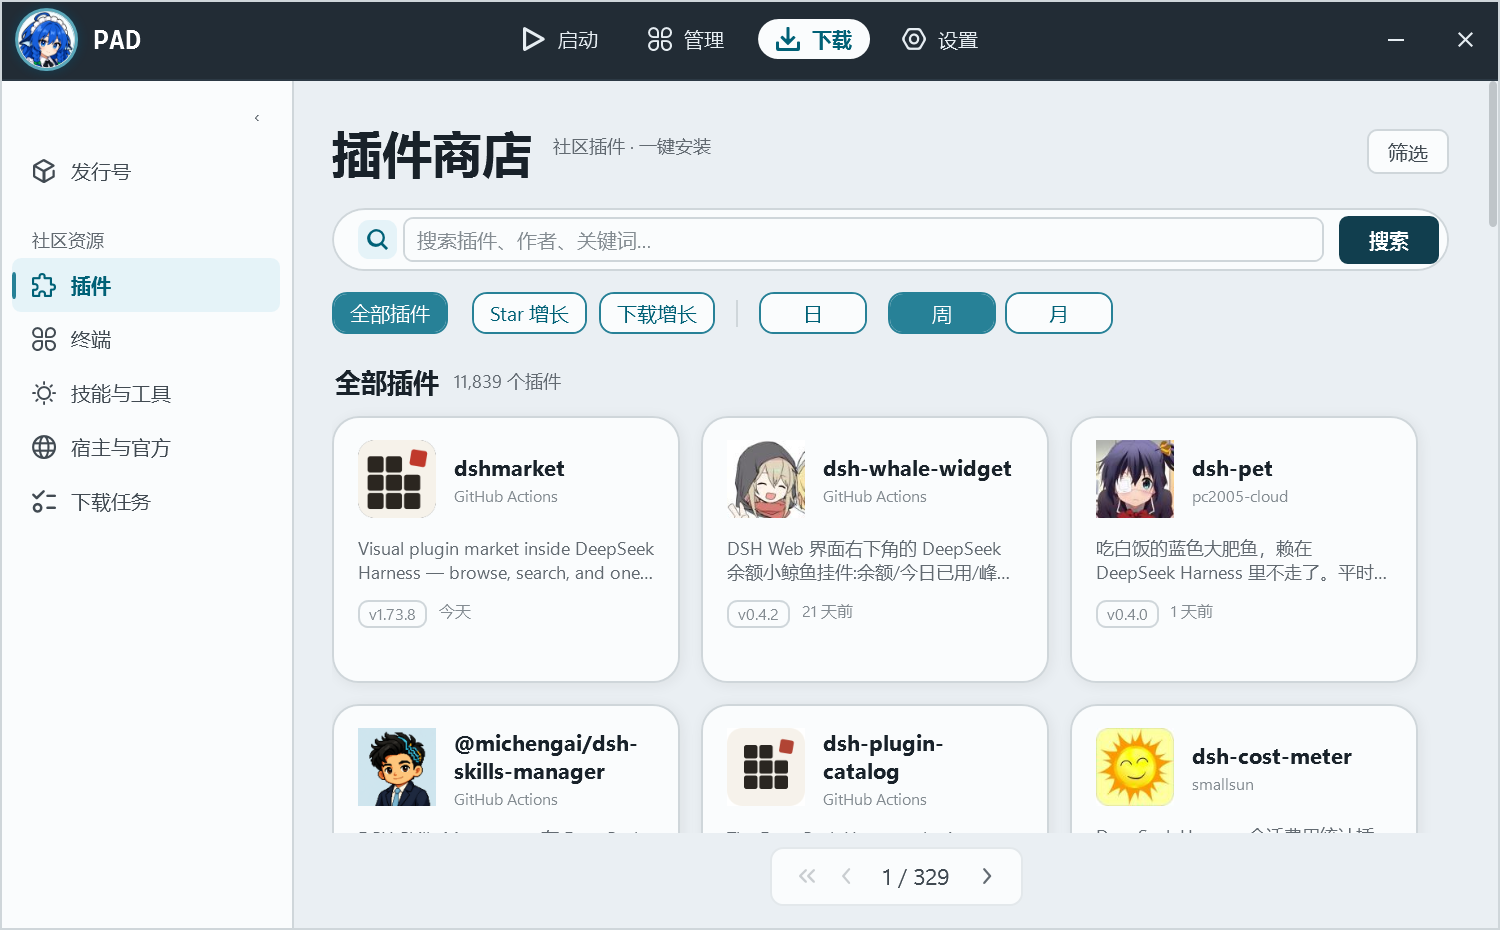
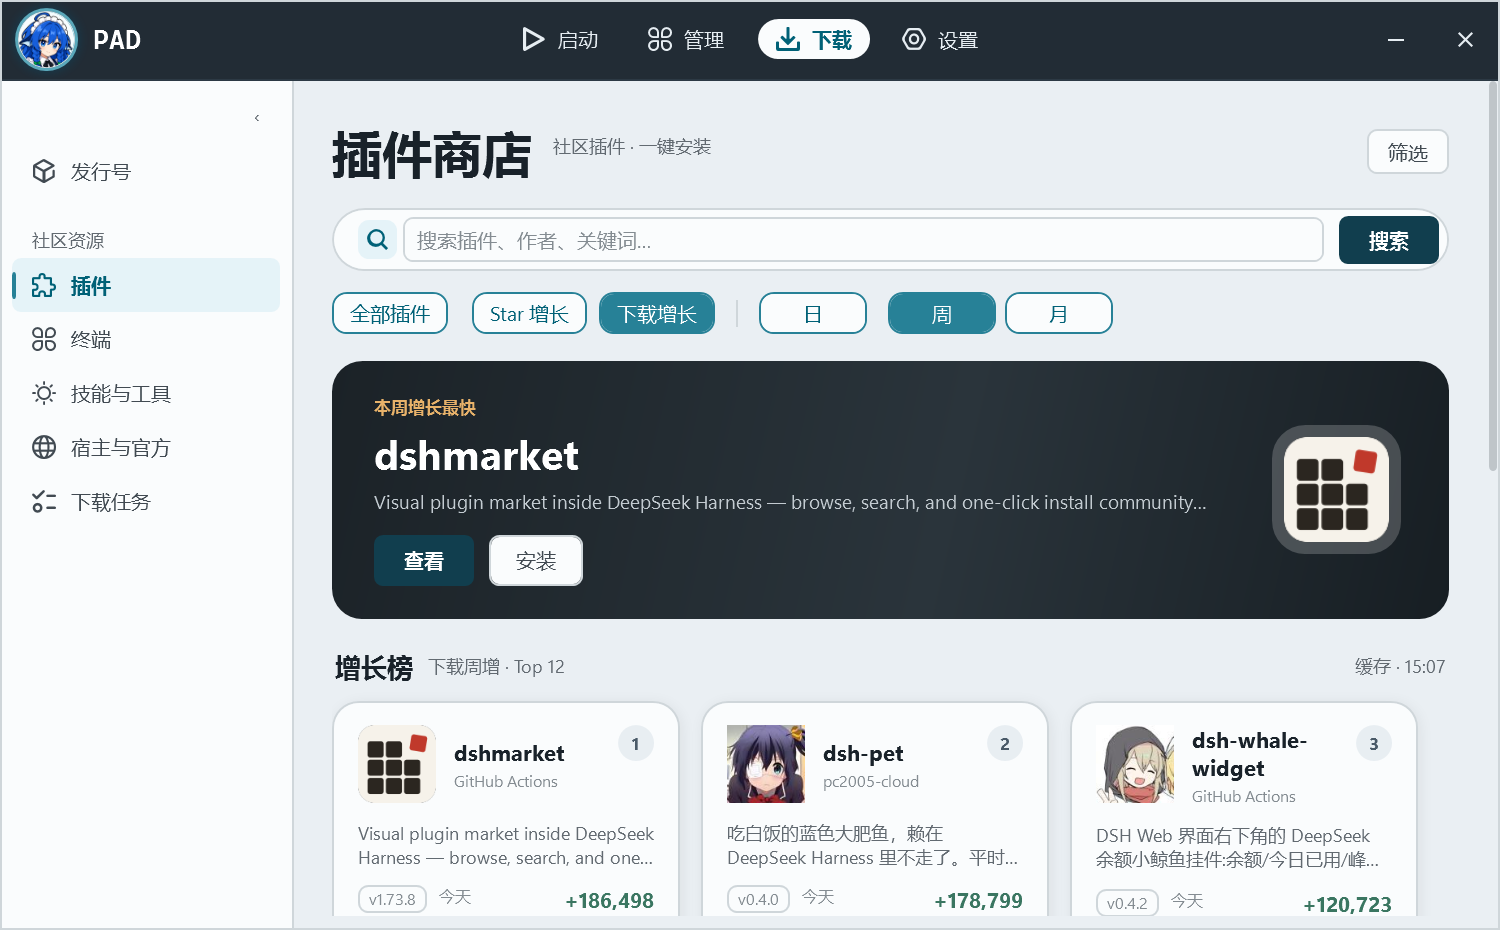
PAD 商店：首页改为 Hero + 增长卡片（默认下载增长·周），全部插件仍为普通卡片网格

diff --git a/agent-pack-dsh/pad/Views/DownloadView.xaml b/agent-pack-dsh/pad/Views/DownloadView.xaml
@@ -350,11 +350,12 @@
 
             <StackPanel Orientation="Horizontal" Margin="0,14,0,0">
               <RadioButton x:Name="ModeAll" Style="{StaticResource FilterTab}" Content="全部插件"
-                           GroupName="storeMode" IsChecked="True" Checked="StoreMode_Changed" />
+                           GroupName="storeMode" Checked="StoreMode_Changed" />
               <RadioButton x:Name="ModeStars" Style="{StaticResource FilterTab}" Content="Star 增长"
                            GroupName="storeMode" Margin="8,0,0,0" Checked="StoreMode_Changed" />
               <RadioButton x:Name="ModeDownloads" Style="{StaticResource FilterTab}" Content="下载增长"
-                           GroupName="storeMode" Margin="8,0,0,0" Checked="StoreMode_Changed" />
+                           GroupName="storeMode" Margin="8,0,0,0" IsChecked="True"
+                           Checked="StoreMode_Changed" />
               <Border Width="1" Height="18" Background="{StaticResource LineBorder}"
                       Margin="14,0" VerticalAlignment="Center" />
               <RadioButton x:Name="PeriodDay" Style="{StaticResource FilterTab}" Content="日"
@@ -417,6 +418,43 @@
               </StackPanel>
             </StackPanel>
 
+            <!-- Hero：本周增长最快；首页默认就是这个视图 -->
+            <Border x:Name="GrowthHero" Visibility="Collapsed" Height="172" Margin="0,18,0,0"
+                    CornerRadius="20" ClipToBounds="True">
+              <Border.Background>
+                <LinearGradientBrush StartPoint="0,0" EndPoint="1,1">
+                  <GradientStop Color="#1B2227" Offset="0" />
+                  <GradientStop Color="#2A343B" Offset="0.55" />
+                  <GradientStop Color="#171E23" Offset="1" />
+                </LinearGradientBrush>
+              </Border.Background>
+              <Grid Margin="28,0">
+                <Grid.ColumnDefinitions>
+                  <ColumnDefinition Width="*" />
+                  <ColumnDefinition Width="Auto" />
+                </Grid.ColumnDefinitions>
+                <StackPanel VerticalAlignment="Center">
+                  <TextBlock Text="本周增长最快" Foreground="#E8B26A" FontSize="11"
+                             FontWeight="Bold" />
+                  <TextBlock x:Name="HeroTitle" Foreground="White" FontSize="27" FontWeight="Bold"
+                             Margin="0,6,0,0" TextTrimming="CharacterEllipsis" />
+                  <TextBlock x:Name="HeroDesc" Foreground="#C3CBD1" FontSize="12.5"
+                             Margin="0,6,0,0" MaxWidth="560" HorizontalAlignment="Left"
+                             TextTrimming="CharacterEllipsis" />
+                  <StackPanel Orientation="Horizontal" Margin="0,14,0,0">
+                    <Button Style="{StaticResource BtnPrimary}" Content="查看" Height="34"
+                            Padding="20,0" Click="HeroOpen_Click" />
+                    <Button Style="{StaticResource Btn}" Content="安装" Height="34"
+                            Padding="18,0" Margin="10,0,0,0" Click="HeroOpen_Click" />
+                  </StackPanel>
+                </StackPanel>
+                <Border Grid.Column="1" Width="86" Height="86" CornerRadius="22"
+                        Background="#33FFFFFF" VerticalAlignment="Center" Margin="20,0,4,0">
+                  <v:PluginMark x:Name="HeroIcon" Width="70" Height="70" Size="70" />
+                </Border>
+              </Grid>
+            </Border>
+
             <Grid Margin="2,20,2,12">
               <StackPanel Orientation="Horizontal" VerticalAlignment="Center">
                 <TextBlock x:Name="StoreSectionTitle" Text="全部插件" FontSize="17"
@@ -431,68 +469,6 @@
                          FontSize="{StaticResource FsSmall}" />
             </Grid>
 
-            <!-- 增长榜：榜单式平铺列表，每行一张真实插件图片 -->
-            <Border x:Name="GrowthPanel" Visibility="Collapsed" Margin="0,2,0,10"
-                    Background="{StaticResource BgCard}" CornerRadius="18"
-                    BorderBrush="{StaticResource LineBorder}" BorderThickness="1">
-              <ItemsControl x:Name="GrowthList">
-                <ItemsControl.ItemTemplate>
-                  <DataTemplate>
-                    <StackPanel>
-                      <Grid Height="86" Background="Transparent" Tag="{Binding}"
-                            MouseLeftButtonUp="Row_OpenDetail" Cursor="Hand">
-                        <Grid.ColumnDefinitions>
-                          <ColumnDefinition Width="42" />
-                          <ColumnDefinition Width="72" />
-                          <ColumnDefinition Width="*" />
-                          <ColumnDefinition Width="Auto" />
-                        </Grid.ColumnDefinitions>
-                        <TextBlock Text="{Binding Rank}" FontSize="18" FontWeight="Bold"
-                                   Foreground="{StaticResource TextMuted}"
-                                   HorizontalAlignment="Center" VerticalAlignment="Center" />
-                        <v:PluginMark Grid.Column="1" Width="56" Height="56" Size="56"
-                                      IconPath="{Binding IconPath}" Spec="{Binding Name}"
-                                      VerticalAlignment="Center" />
-                        <StackPanel Grid.Column="2" VerticalAlignment="Center" Margin="14,0,14,0">
-                          <TextBlock Text="{Binding Title}" FontSize="15" FontWeight="Bold"
-                                     Foreground="{StaticResource TextPrimary}"
-                                     TextTrimming="CharacterEllipsis" />
-                          <TextBlock Text="{Binding Publisher}" FontSize="10.5"
-                                     Foreground="{StaticResource TextMuted}" Margin="0,2,0,0"
-                                     TextTrimming="CharacterEllipsis" />
-                          <TextBlock Text="{Binding DescriptionText}" FontSize="11.5"
-                                     Foreground="{StaticResource TextSecondary}" Margin="0,3,0,0"
-                                     TextTrimming="CharacterEllipsis" />
-                        </StackPanel>
-                        <StackPanel Grid.Column="3" VerticalAlignment="Center"
-                                    HorizontalAlignment="Right" Margin="0,0,20,0">
-                          <TextBlock Text="{Binding GrowthBadge}" FontSize="19" FontWeight="Bold"
-                                     HorizontalAlignment="Right">
-                            <TextBlock.Style>
-                              <Style TargetType="TextBlock">
-                                <Setter Property="Foreground" Value="{StaticResource Success}" />
-                                <Style.Triggers>
-                                  <DataTrigger Binding="{Binding GrowthSign}" Value="neg">
-                                    <Setter Property="Foreground" Value="{StaticResource Danger}" />
-                                  </DataTrigger>
-                                  <DataTrigger Binding="{Binding GrowthSign}" Value="zero">
-                                    <Setter Property="Foreground" Value="{StaticResource TextMuted}" />
-                                  </DataTrigger>
-                                </Style.Triggers>
-                              </Style>
-                            </TextBlock.Style>
-                          </TextBlock>
-                          <TextBlock Text="{Binding GrowthTotalLine}" FontSize="10.5"
-                                     Foreground="{StaticResource TextMuted}"
-                                     HorizontalAlignment="Right" Margin="0,2,0,0" />
-                        </StackPanel>
-                      </Grid>
-                      <Border Height="1" Background="{StaticResource BgPage}" Margin="42,0,0,0" />
-                    </StackPanel>
-                  </DataTemplate>
-                </ItemsControl.ItemTemplate>
-              </ItemsControl>
-            </Border>
           </StackPanel>
 
           <Border x:Name="MarketError" Style="{StaticResource BannerWarn}" Margin="0,0,0,15"

diff --git a/agent-pack-dsh/pad/Views/DownloadView.xaml.cs b/agent-pack-dsh/pad/Views/DownloadView.xaml.cs
@@ -23,7 +23,8 @@ public partial class DownloadView : UserControl, IRefreshable
 
     int _storePageSizeUsed = 20;
     bool _growthBusy;
-    string _storeMode = "all";
+    string _storeMode = "downloads";
+    MarketRow? _heroRow;
     int _storePeriod = 7;
     DispatcherTimer? _storeResizeTimer;
 
@@ -811,7 +812,7 @@ public partial class DownloadView : UserControl, IRefreshable
         foreach (var r in shown) r.Favorite = Favorites.IsFavorite(_state.Launcher.Root, r.Name);
         ResultList.ItemsSource = shown;
         _ = LoadMarketIcons(page.Rows);
-        GrowthPanel.Visibility = Visibility.Collapsed;
+        GrowthHero.Visibility = Visibility.Collapsed;
         StoreSectionTitle.Text = "全部插件";
         StoreSectionSub.Text = $"{page.Total:N0} 个插件";
         StoreSectionRight.Text = SearchBox.Text.Trim().Length > 0 ? $"搜索“{SearchBox.Text.Trim()}”" : "";
@@ -892,6 +893,11 @@ public partial class DownloadView : UserControl, IRefreshable
         }, System.Windows.Threading.DispatcherPriority.Loaded);
     }
 
+    void HeroOpen_Click(object sender, RoutedEventArgs e)
+    {
+        if (_heroRow is not null) OpenStoreDetail(_heroRow);
+    }
+
     void StoreRailToggle_Click(object sender, RoutedEventArgs e)
     {
         var hide = StoreRail.Visibility == Visibility.Visible;
@@ -905,10 +911,10 @@ public partial class DownloadView : UserControl, IRefreshable
         _growthBusy = true;
         MarketError.Visibility = Visibility.Collapsed;
         EmptyCard.Visibility = Visibility.Collapsed;
-        ResultCard.Visibility = Visibility.Collapsed;
-        GrowthPanel.Visibility = Visibility.Collapsed;
+        ResultCard.Visibility = Visibility.Visible;
         PagerCard.Visibility = Visibility.Collapsed;
-        LoadCard.Visibility = GrowthList.ItemsSource is null ? Visibility.Visible : Visibility.Collapsed;
+        GrowthHero.Visibility = Visibility.Collapsed;
+        LoadCard.Visibility = ResultList.ItemsSource is null ? Visibility.Visible : Visibility.Collapsed;
         StoreSectionTitle.Text = "增长榜";
         StoreSectionSub.Text = _storeMode == "stars" ? "Star 增长" : "下载增长";
         StoreSectionRight.Text = "";
@@ -934,20 +940,27 @@ public partial class DownloadView : UserControl, IRefreshable
                 GrowthSign = m.GrowthSign,
             }).ToList();
             foreach (var r in rows) r.Favorite = Favorites.IsFavorite(_state.Launcher.Root, r.Name);
-            GrowthList.ItemsSource = rows;
+            ResultList.ItemsSource = rows;
             StoreSectionSub.Text = $"{board?.Label ?? ""} · Top {rows.Count}";
             StoreSectionRight.Text = boards.FromCache ? $"缓存 · {boards.GeneratedText}" : $"更新 · {boards.GeneratedText}";
             var any = rows.Count > 0;
-            GrowthPanel.Visibility = any ? Visibility.Visible : Visibility.Collapsed;
-            ResultCard.Visibility = Visibility.Collapsed;
+            ResultCard.Visibility = any ? Visibility.Visible : Visibility.Collapsed;
             EmptyCard.Visibility = any ? Visibility.Collapsed : Visibility.Visible;
             EmptyText.Text = "暂时拉不到增长数据（网络或 GitHub 限流）";
-            if (any) await LoadMarketIcons(rows);
+            if (any)
+            {
+                _heroRow = rows[0];
+                HeroTitle.Text = _heroRow.Title;
+                HeroDesc.Text = $"{_heroRow.DescriptionText} · 本期 {_heroRow.GrowthBadge}";
+                HeroIcon.Spec = _heroRow.Name;
+                GrowthHero.Visibility = Visibility.Visible;
+                await LoadMarketIcons(rows);
+                HeroIcon.IconPath = _heroRow.IconPath;
+            }
         }
         catch (Exception ex)
         {
-            GrowthList.ItemsSource = null;
-            GrowthPanel.Visibility = Visibility.Collapsed;
+            ResultList.ItemsSource = null;
             ResultCard.Visibility = Visibility.Collapsed;
             EmptyCard.Visibility = Visibility.Visible;
             EmptyText.Text = PadError.Describe(ex);

diff --git a/EVIDENCE/D110-store-ui-references/README.md b/EVIDENCE/D110-store-ui-references/README.md
@@ -80,16 +80,15 @@
 
 ## 7. 已实现（PAD 下载页 · 插件商店）
 
-- `11-store-home.png`：**全部插件（首页）**——保持卡片网格：33px 标题 + 搜索胶囊 + 分段 chip + 3 列大卡，真实插件图标
-- `12-store-growth-list.png`：**增长模式**——改成榜单式平铺列表：56px 真实插件图标、名次、作者/分类、一句描述、右侧本期增长 + 本期总量；没有 Hero 横幅
+- `11-store-home.png`：**首页 = Hero + 增长卡片**（默认 `下载增长 · 周`）：石墨 Hero（本周增长最快 + 真实插件图标）+ 3 列增长卡片（名次 + 真实图标 + 本期增长）
 - `13-store-rail-collapsed.png`：侧栏收起（左缘 `›` 重新展开）
 
-结构决定：
+结构：
 
-1. 全部插件（首页）= 卡片网格，浏览用；不塞 Hero/榜单
-2. Star 增长 / 下载增长 = 同一个商店页的榜单模式，单列平铺列表，点击行走同一个插件详情窗
+1. 进入插件商店默认落到「下载增长 · 周」，就是那张 Hero + 卡片网格的首页
+2. `全部插件` 切换回普通搜索卡片（无 Hero、无增长徽标）；`Star 增长` 同为 Hero + 卡片
 3. 日 / 周 / 月 周期 chip；数据缓存 6h
-4. 所有图片走 `PluginMark`（真实插件图标），没有字母占位块
+4. 所有图片走 `PluginMark`（真实插件图标），无字母占位块
 5. 侧栏可收起；视觉 token 与高保真稿一致
 
 验证：`dotnet build` 0/0，`dotnet test` 42 项通过，UI 契约测试通过。
